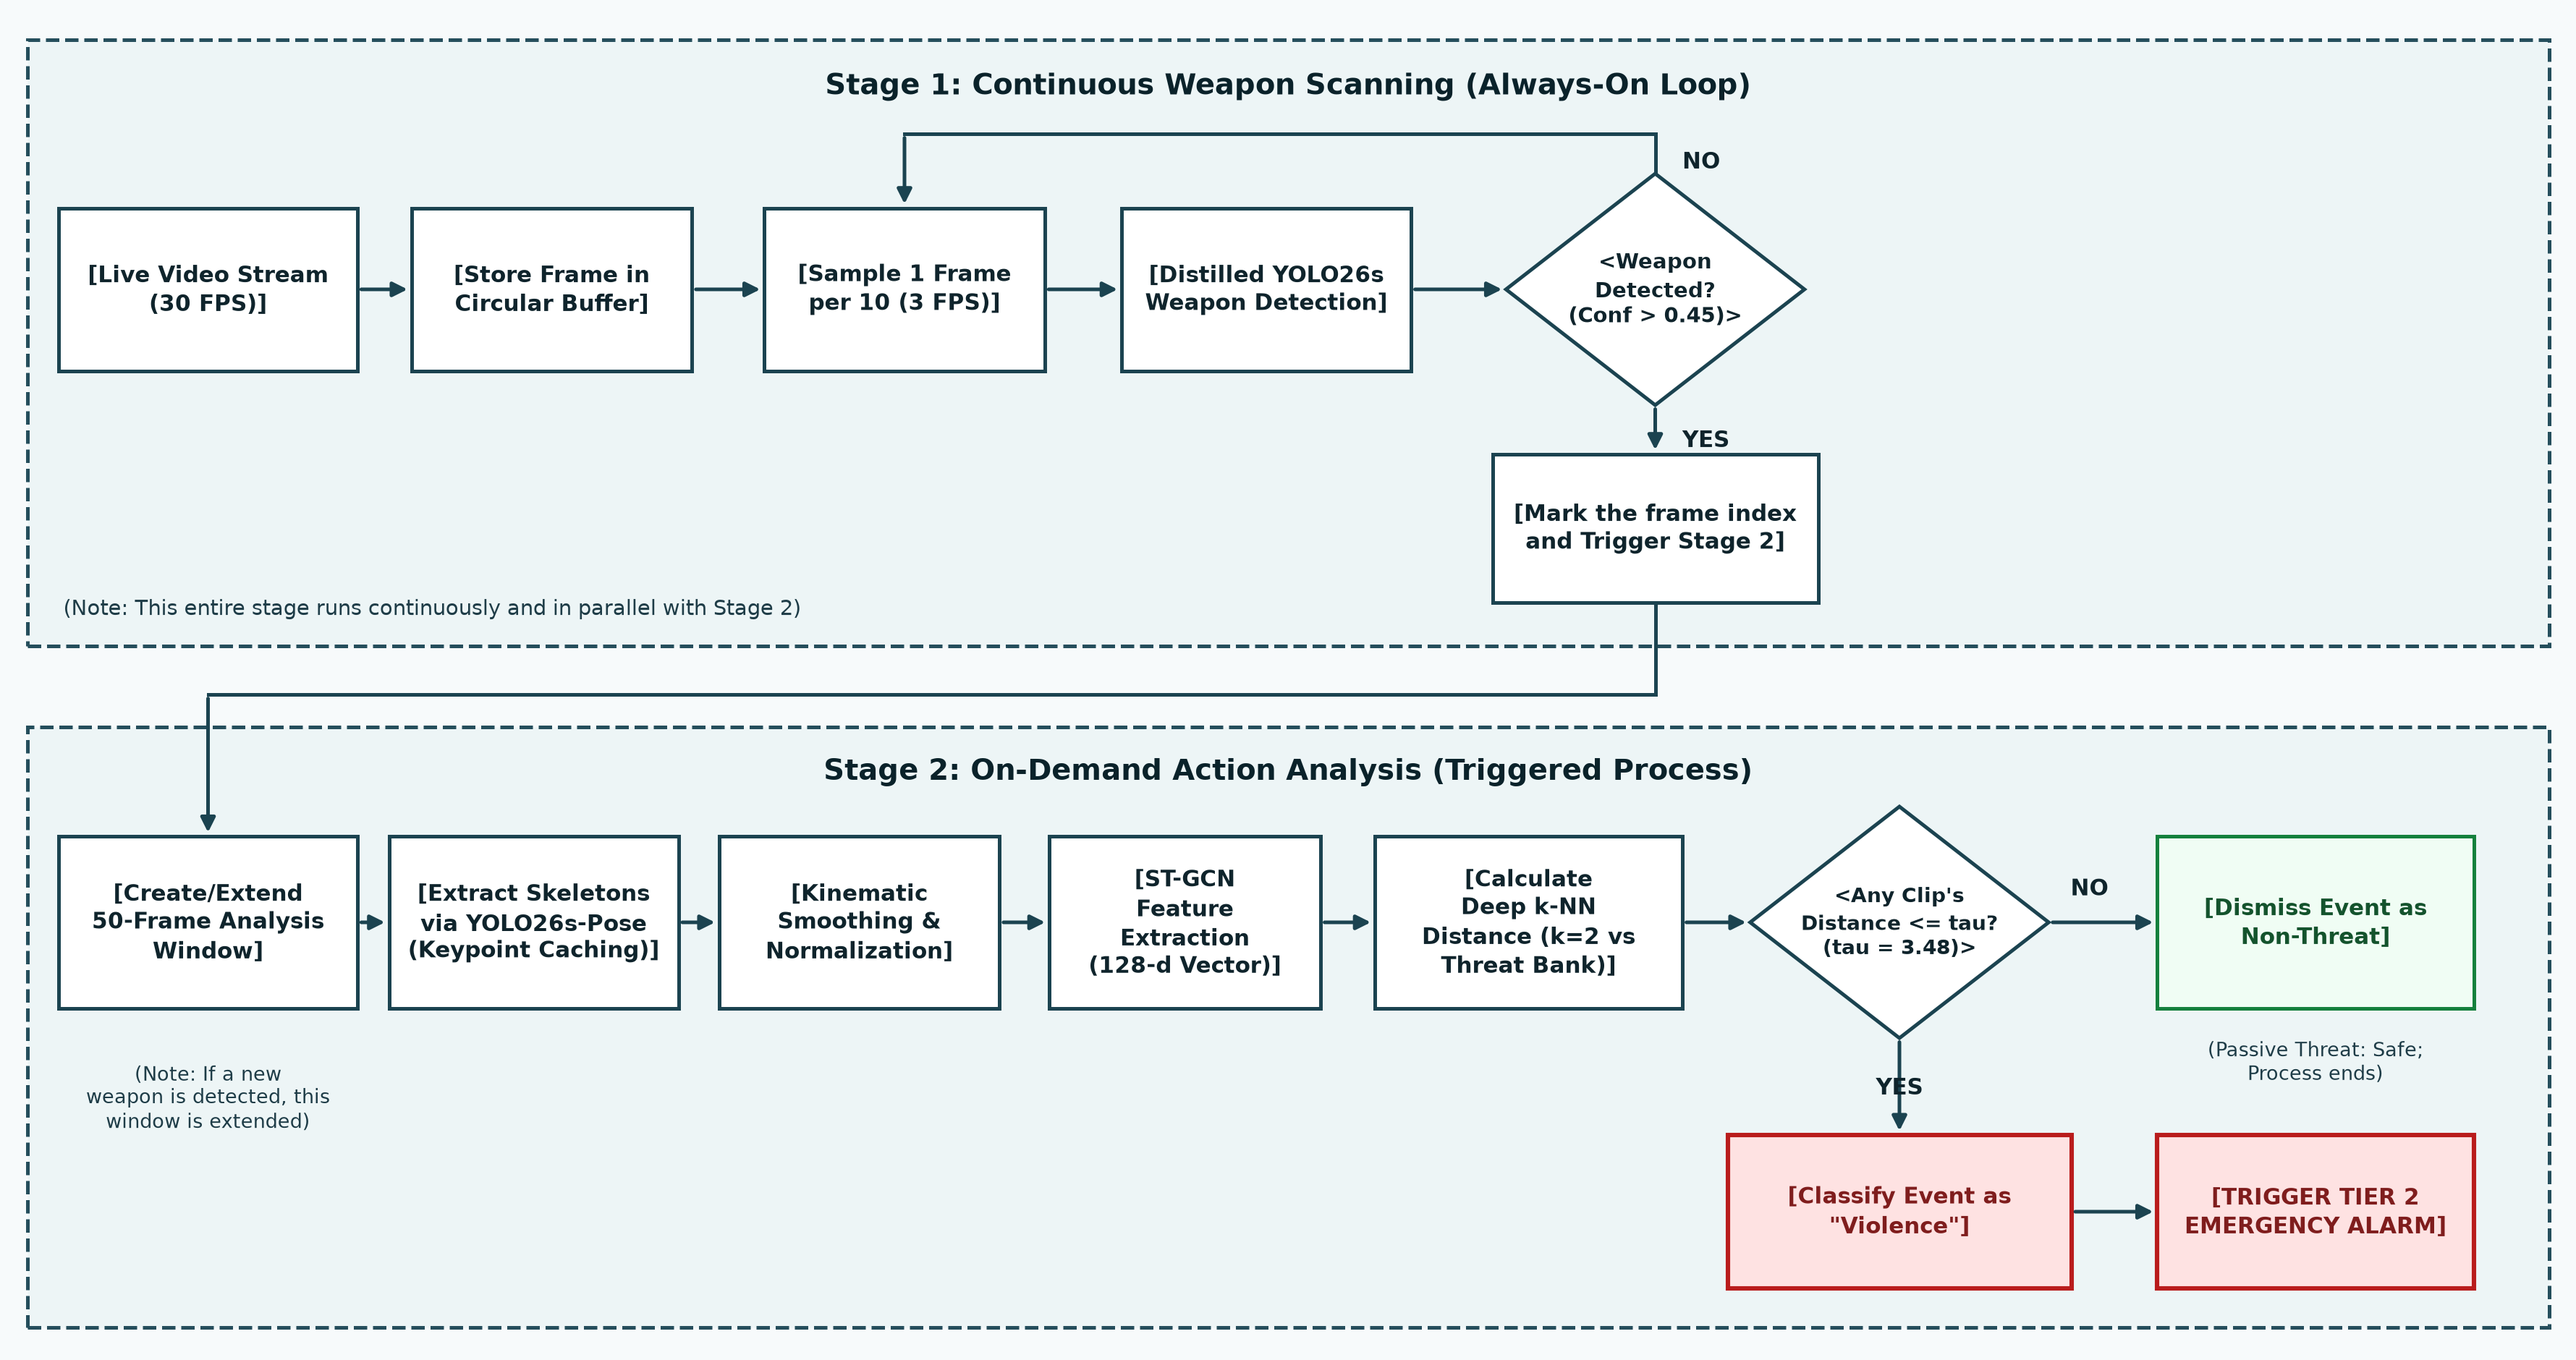
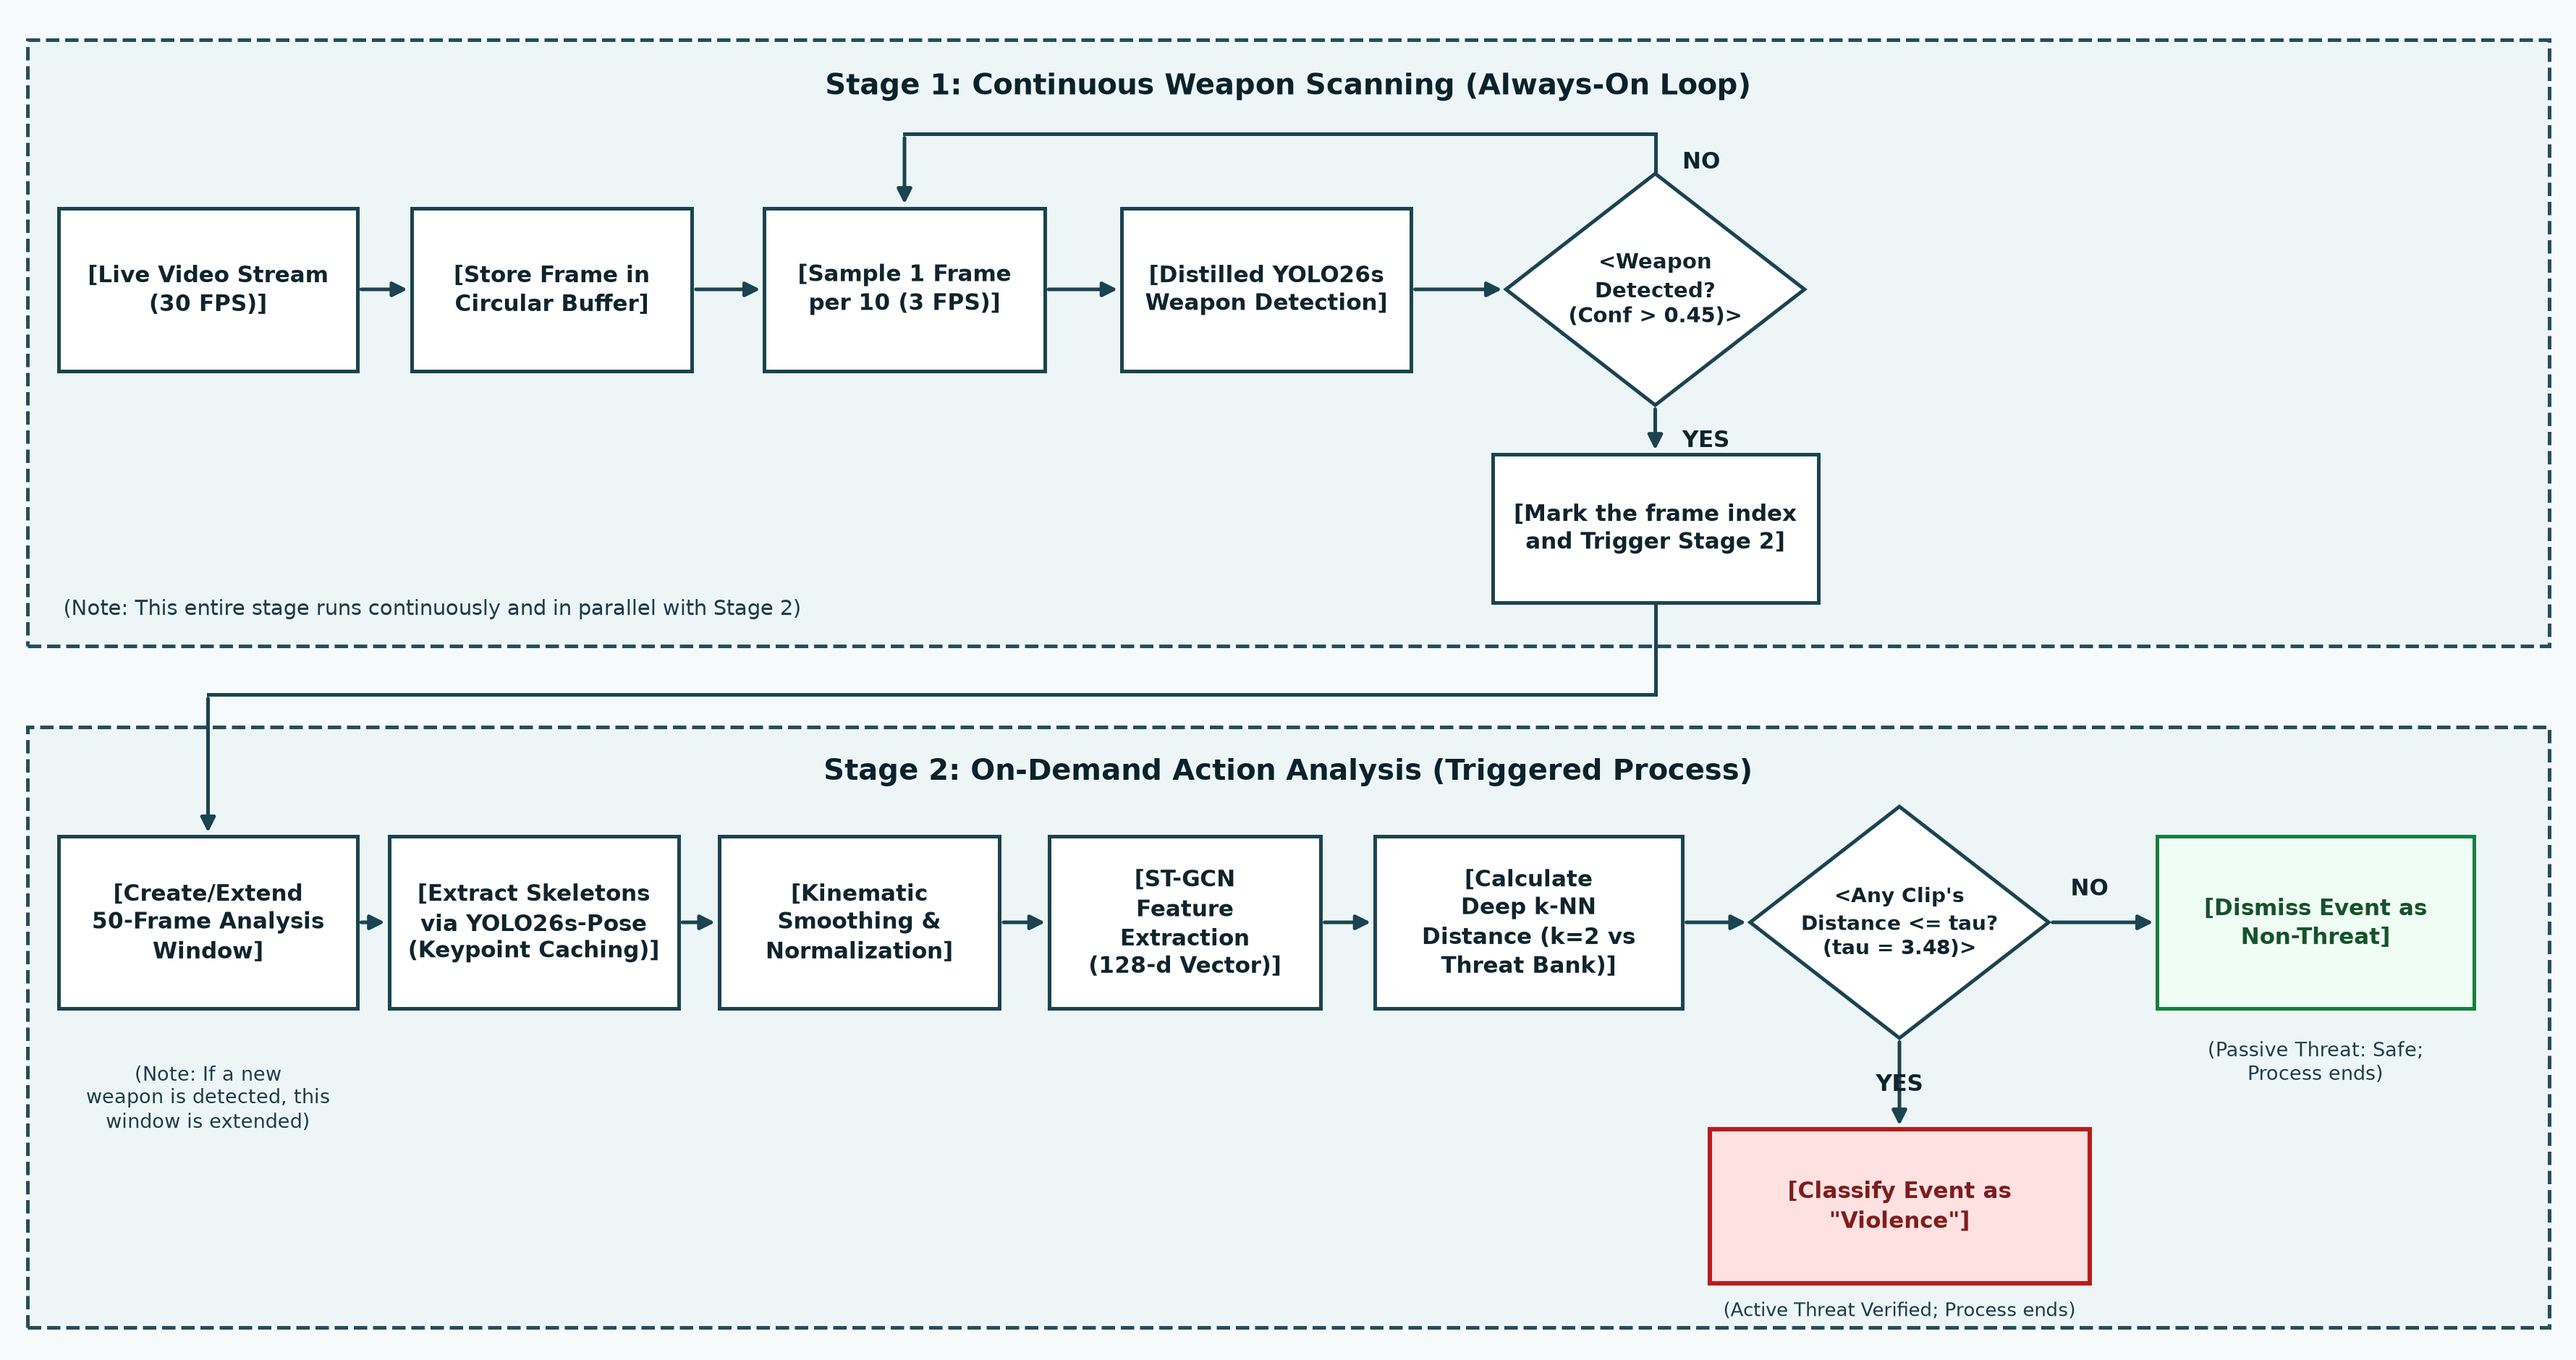
refactor: scope pipeline outputs to violence classification and remove alarm dispatch claims

Changed region(s): [[0.6548, 0.7713, 0.9666, 0.9872]]

diff --git a/scripts/generate_pipeline_diagram.py b/scripts/generate_pipeline_diagram.py
@@ -1,13 +1,12 @@
 import matplotlib
 matplotlib.use('Agg')
 import matplotlib.pyplot as plt
-from matplotlib.patches import FancyBboxPatch, Polygon, FancyArrowPatch, Rectangle
+from matplotlib.patches import Polygon, FancyArrowPatch, Rectangle
 from matplotlib.lines import Line2D
 import os
 
 def create_pipeline_diagram(output_path='assets/inference_pipeline.png', dpi=200):
     output_path = os.path.normpath(os.path.abspath(output_path))
-    # Dimensions: 17.8 x 9.4 inches at 200 DPI = 3560 x 1880 px (ultra crisp)
     fig = plt.figure(figsize=(17.8, 9.4), dpi=dpi, facecolor='#ffffff')
     ax = fig.add_axes([0, 0, 1, 1])
     ax.set_xlim(0, 142.4)
@@ -26,11 +25,12 @@ def create_pipeline_diagram(output_path='assets/inference_pipeline.png', dpi=200
     C_NOTE_TEXT = '#1e3c47'        # Subtitle / note text
     C_ARROW = '#1b4350'            # Arrow and routing lines
     
-    # Alarm / Dismiss highlights
-    C_ALARM_BG = '#fee2e2'         # Soft red fill for alarm
-    C_ALARM_BORDER = '#b91c1c'     # Crimson border
-    C_ALARM_TEXT = '#7f1d1d'       # Crimson text
+    # Violence classification box styling
+    C_VIOLENCE_BG = '#fee2e2'      # Soft red fill for violence classification
+    C_VIOLENCE_BORDER = '#b91c1c'  # Crimson border
+    C_VIOLENCE_TEXT = '#7f1d1d'    # Crimson text
     
+    # Non-threat dismissal styling
     C_DISMISS_BG = '#f0fdf4'       # Soft mint/green fill for non-threat
     C_DISMISS_BORDER = '#15803d'   # Muted green border
     C_DISMISS_TEXT = '#14532d'     # Dark green text
@@ -39,8 +39,8 @@ def create_pipeline_diagram(output_path='assets/inference_pipeline.png', dpi=200
     ax.add_patch(Rectangle((0, 0), 142.4, 75.2, facecolor=C_OUTSIDE_BG, edgecolor='none', zorder=0))
 
     def draw_box(x, y, w, h, title_text, box_type='standard'):
-        if box_type == 'alarm':
-            fc, ec, tc, lw = C_ALARM_BG, C_ALARM_BORDER, C_ALARM_TEXT, 2.2
+        if box_type == 'violence':
+            fc, ec, tc, lw = C_VIOLENCE_BG, C_VIOLENCE_BORDER, C_VIOLENCE_TEXT, 2.2
         elif box_type == 'dismiss':
             fc, ec, tc, lw = C_DISMISS_BG, C_DISMISS_BORDER, C_DISMISS_TEXT, 1.8
         else:
@@ -134,7 +134,6 @@ def create_pipeline_diagram(output_path='assets/inference_pipeline.png', dpi=200
     # =========================================================================
     # STAGE 1 TO STAGE 2 CONNECTING ARROW
     # =========================================================================
-    # Routing passes cleanly through the inter-stage channel at y = 37.0
     draw_polyline_arrow([(91.5, 46.0 - 8.2/2), (91.5, 36.8), (11.5, 36.8), (11.5, 24.2 + 9.5/2)])
 
     # =========================================================================
@@ -179,7 +178,7 @@ def create_pipeline_diagram(output_path='assets/inference_pipeline.png', dpi=200
     w_d2, h_d2 = 16.5, 12.8
     draw_diamond(105.0, y_s2, w_d2, h_d2, "<Any Clip's\nDistance <= tau?\n(tau = 3.48)>", font_sz=10.2)
 
-    # Diamond 2 -> NO (Dismiss)
+    # Diamond 2 -> NO (Dismiss as Non-Threat)
     draw_arrow(105.0 + w_d2/2, y_s2, 128.0 - 17.5/2, y_s2)
     ax.text(115.5, y_s2 + 1.2, "NO", ha='center', va='bottom', fontsize=11, fontweight='bold',
             family='sans-serif', color='#0f242c', zorder=4)
@@ -189,17 +188,17 @@ def create_pipeline_diagram(output_path='assets/inference_pipeline.png', dpi=200
             ha='center', va='center', fontsize=9.8, family='sans-serif',
             color=C_NOTE_TEXT, linespacing=1.2, zorder=3)
 
-    # Diamond 2 -> YES (Violence Alert)
-    y_alarm = 8.2
-    h_alarm = 8.5
-    draw_arrow(105.0, y_s2 - h_d2/2, 105.0, y_alarm + h_alarm/2)
-    ax.text(105.0, 15.0, "YES", ha='center', va='center', fontsize=11, fontweight='bold',
+    # Diamond 2 -> YES (Violence Classification - Pipeline Ends Here)
+    y_violence = 8.5
+    h_violence = 8.5
+    draw_arrow(105.0, y_s2 - h_d2/2, 105.0, y_violence + h_violence/2)
+    ax.text(105.0, 15.2, "YES", ha='center', va='center', fontsize=11, fontweight='bold',
             family='sans-serif', color='#0f242c', zorder=4)
 
-    draw_box(105.0, y_alarm, 19.0, h_alarm, "[Classify Event as\n\"Violence\"]", box_type='alarm')
-    draw_arrow(105.0 + 19.0/2, y_alarm, 128.0 - 17.5/2, y_alarm)
-
-    draw_box(128.0, y_alarm, 17.5, h_alarm, "[TRIGGER TIER 2\nEMERGENCY ALARM]", box_type='alarm')
+    draw_box(105.0, y_violence, 21.0, h_violence, "[Classify Event as\n\"Violence\"]", box_type='violence')
+    ax.text(105.0, 2.7, "(Active Threat Verified; Process ends)",
+            ha='center', va='center', fontsize=9.5, family='sans-serif',
+            color=C_NOTE_TEXT, zorder=3)
 
     os.makedirs(os.path.dirname(output_path), exist_ok=True)
     plt.savefig(output_path, dpi=dpi, facecolor='#ffffff', edgecolor='none')

diff --git a/src/inference_realtime.py b/src/inference_realtime.py
@@ -1,11 +1,10 @@
 """
 Hierarchical Real-Time Threat Detection System.
-Two-Tiered Surveillance Architecture:
-- Tier 1 (Early Warning): Lightweight 3 FPS YOLO weapon detector immediately
-  flags weapon brandishing for on-site security guards.
-- Tier 2 (Kinematic Escalation): Triggered on-demand ST-GCN + YOLO-Pose + OOD gating
-  exhaustively audits movement trajectories with zero dropped frames to verify violent assault
-  and trigger emergency response (Police / EMS dispatch).
+Dual-Stage Surveillance Architecture:
+- Stage 1 (Screening): Lightweight 3 FPS YOLO weapon detector immediately
+  flags weapon presence.
+- Stage 2 (Kinematic Verification): Triggered on-demand ST-GCN + YOLO-Pose + OOD gating
+  exhaustively audits movement trajectories with zero dropped frames to verify violent assault.
 
 Zero-Drop Multi-Threaded Pipeline:
 - Thread 1: Continuous webcam ingestion into an expanded 1200-frame (~40s) thread-safe circular buffer.
@@ -111,7 +110,7 @@ class HierarchicalThreatDetector:
                     # Hold threat monitoring window for 3.0 seconds after last weapon sighting
                     self.weapon_active_until = time.time() + 3.0
                     if not self.is_violent_alert:
-                        self.status_text = "TIER 1 WARNING: WEAPON BRANDISHED - AUDITING MOTION..."
+                        self.status_text = "WEAPON DETECTED - AUDITING MOTION..."
                         self.status_color = (0, 165, 255)  # Orange
 
             elapsed = time.time() - start_t
@@ -194,10 +193,10 @@ class HierarchicalThreatDetector:
 
             if is_violence:
                 self.is_violent_alert = True
-                self.alert_until = time.time() + 5.0  # Hold alarm for 5s
-                self.status_text = f"TIER 2 CRITICAL: VIOLENCE CONFIRMED! [DISPATCH EMERGENCY] ({detail_str})"
+                self.alert_until = time.time() + 5.0  # Hold alert display for 5s
+                self.status_text = f"VIOLENCE DETECTED! ({detail_str})"
                 self.status_color = (0, 0, 255)  # Red
-                print(f"[ACTION] !!! VIOLENCE CONFIRMED ({detail_str}) - EMERGENCY SERVICES DISPATCHED !!!")
+                print(f"[ACTION] !!! VIOLENCE DETECTED ({detail_str}) !!!")
             else:
                 if not self.is_violent_alert:
                     self.status_text = f"PASSIVE MOTION: WEAPON DRAWN, NO STRIKE ({detail_str})"

diff --git a/README.md b/README.md
@@ -17,19 +17,19 @@ This project addresses this bottleneck by decoupling threat detection into a **H
 
 ![Inference Pipeline](assets/inference_pipeline.png)
 
-### 1. Stage 1: Continuous Lightweight Scanning & Tier 1 Security Warning (Always-On Loop)
+### 1. Stage 1: Continuous Lightweight Weapon Scanning (Always-On Loop)
 * **Ingestion:** Ingests live video at 30 FPS into an expanded **1200-frame (~40s) thread-safe circular buffer**.
 * **Low-Power Gating:** Subsamples **1 frame per 10 (effective rate: 3 FPS)** for weapon detection using a compact, distilled YOLO student model.
 * **Compute Savings:** Reduces continuous idle inference workloads by **~90%**, reserving GPU/NPU compute until an object of interest is verified (`Conf > 0.45`).
-* **Tier 1 Security Warning:** Immediately alerts local on-site security guards when a weapon is drawn or brandished in public/restricted areas, providing early tactical warning before an attack begins.
+* **Threat Screening Alert:** Immediately flags when a weapon is drawn or brandished in public/restricted areas, initiating Stage 2 action verification.
 
-### 2. Stage 2: Zero-Drop Biomechanical Action Auditing & Emergency Escalation (Triggered Engine)
+### 2. Stage 2: Zero-Drop Biomechanical Action Auditing (Triggered Engine)
 * **Zero-Drop Gapless Auditing:** Upon Stage 1 trigger, an on-demand worker executes a **contiguous sliding-window audit (50 frames, 10-frame stride)** over the 1,200-frame circular buffer.
 * **Skeletal Pose Keypoint Caching:** To avoid redundant computation on overlapping sliding windows (80% frame overlap), each frame's 17 keypoint coordinates are cached in `FrameItem.skeleton`. When advancing by 10 frames, **40 of the 50 frames are instantly retrieved from cache** without re-running pose estimation. Only the 10 newly introduced frames undergo YOLO-Pose inference ($\sim 100\text{ ms}$ GPU latency vs. $333\text{ ms}$ real time), enabling the action worker to audit at **$\sim 3.3\times$ faster than real-time** and catch up with zero dropped frames.
 * **Kinematic Preprocessing:** Implements **1D Gaussian temporal smoothing** ($\sigma = 1.0$) and linear interpolation to resolve occluded joints, followed by **centroid normalization** to achieve scale and position invariance.
 * **ST-GCN Feature Extraction:** Feeds normalized skeleton graphs through a **9-block Spatial-Temporal Graph Convolutional Network** with joint-weighted spatial attention (5× weight on arm joints).
 * **OOD Distance Gating:** Measures deep feature embeddings against a baseline threat manifold using **Deep k-NN distance**, distinguishing passive holding actions from aggressive striking motions.
-* **Tier 2 Emergency Escalation:** When violent assault trajectories (`Cut-Down`, `Stab`, `Thrust`) are confirmed, the system immediately escalates to **Tier 2: dispatching emergency services (Police / EMS)** and locking timestamped video clips for forensic evidence.
+* **Violence Classification:** When violent assault trajectories (`Cut-Down`, `Stab`, `Thrust`) are confirmed, the system classifies the action as active **"Violence"**, distinguishing aggressive attacks from passive object holding.
 
 ---
 
@@ -126,19 +126,19 @@ The ST-GCN model was trained on 17-node skeleton trajectories across 3 action ca
 * **OOD Discrimination:** Distinguishes between:
   * 🟢 **Normal Scanning:** No weapon present.
   * 🟡 **Passive Threat ("WEAPON SEEN, SAFE"):** Weapon visible, but kinematic trajectories deviate from violent attack patterns.
-  * 🔴 **Active Threat ("VIOLENCE DETECTED"):** Kinematic velocity, acceleration, and joint angle vectors match violent attack manifold $\rightarrow$ Alarm triggered.
+  * 🔴 **Active Threat ("VIOLENCE DETECTED"):** Kinematic velocity, acceleration, and joint angle vectors match violent attack manifold $\rightarrow$ Classified as active violence.
 
 ---
 
 ## 🎯 Negative Control & Out-of-Distribution (OOD) Threat Verification
 
 ### Understanding Out-of-Distribution (OOD) Negative Control Clips
-In practical computer vision surveillance, the primary failure mode is **alarm fatigue** caused by false positive alerts on mundane civilian behaviors. 
+In practical computer vision surveillance, the primary failure mode is **false alert fatigue** caused by false positive classifications on mundane civilian behaviors. 
 
 To rigorously quantify system reliability, the evaluation framework incorporates **Out-of-Distribution (OOD) Negative Control Sequences**:
 * **Definition:** Negative control clips containing human actors performing everyday actions and carrying everyday objects that visually or kinematically resemble threats, but do **not** involve violent striking motions or actual weapons.
 * **Stage 1 Negative Controls:** Civilians holding everyday objects (smartphones, water bottles, pens, umbrellas, or wallets). A successful Stage 1 detector must suppress these civilian items (`Conf < 0.45`).
-* **Stage 2 Negative Controls:** Civilians executing fast or animated body movements (jogging, stretching, waving, rapid pointing, reaching into coat pockets, wiping surfaces). Even if an item is erroneously flagged in Stage 1, Stage 2 kinematic manifold gating ensures that non-violent trajectories are dismissed without sounding an alarm.
+* **Stage 2 Negative Controls:** Civilians executing fast or animated body movements (jogging, stretching, waving, rapid pointing, reaching into coat pockets, wiping surfaces). Even if an item is erroneously flagged in Stage 1, Stage 2 kinematic manifold gating ensures that non-violent trajectories are dismissed without false violence alerts.
 * **Camera Glitches:** Additional edge-case clips featuring webcam sensor compression artifacts, severe lighting changes, and fragmented pose keypoints to verify pipeline robustness under hardware degradation.
 
 ---
